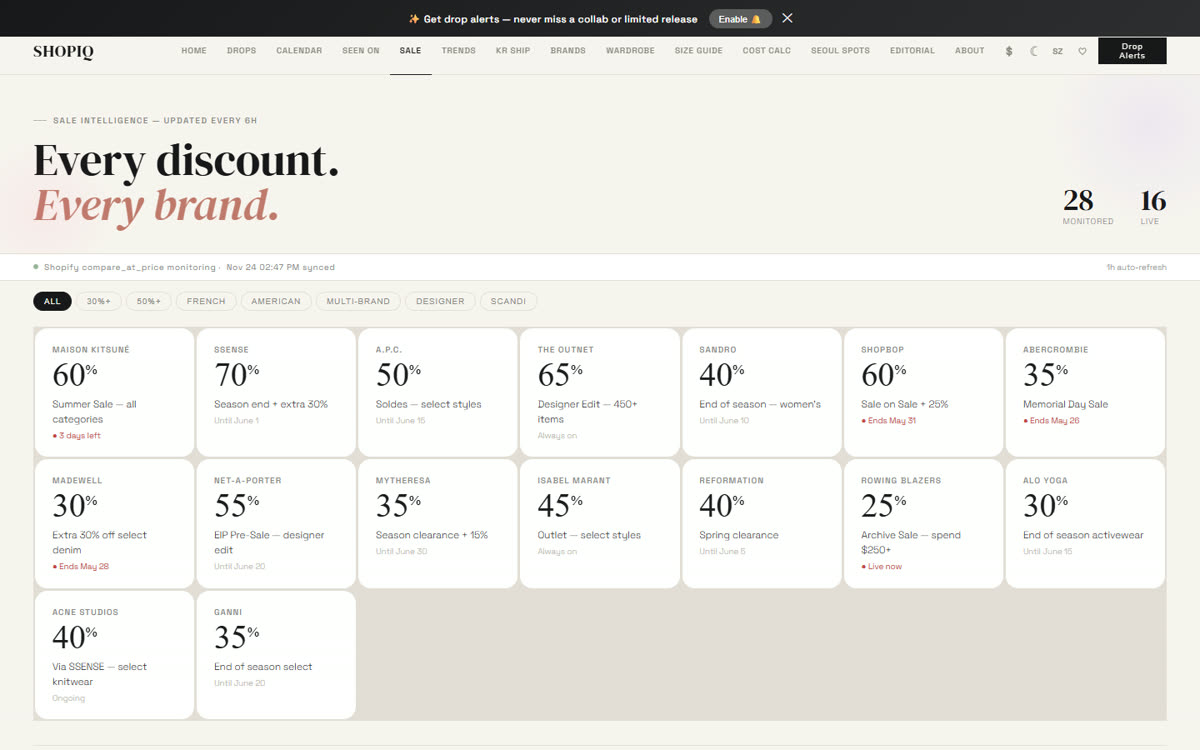
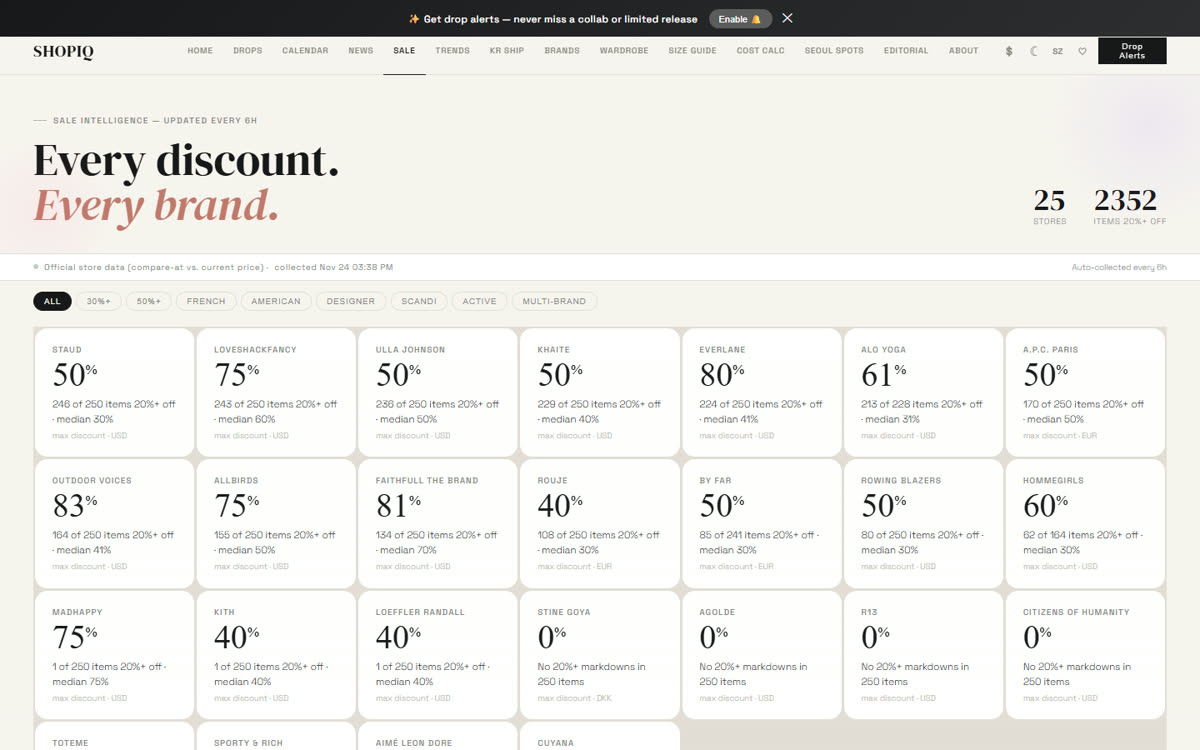
SHOPIQ is live: link, live screenshots, accurate description

diff --git a/index.html b/index.html
@@ -101,7 +101,7 @@ footer .wrap{display:flex;justify-content:space-between;flex-wrap:wrap;gap:12px}
     <h1>최주영</h1>
     <p class="lead">공주교육대학교 초등교육과(수학 심화) 재학<br>생성형 AI로 직접 만든 사이트, 영상, 업무 도구를 모았습니다.</p>
     <div class="facts">
-      <div class="fact"><b>85개</b><span>SHOPIQ에 정리한 브랜드</span></div>
+      <div class="fact"><b>25곳</b><span>SHOPIQ가 6시간마다 수집하는 공식몰</span></div>
       <div class="fact"><b>우수상</b><span>교육부·KERIS 숏폼 공모전</span></div>
       <div class="fact"><b>10분 30초</b><span>AI로 만든 다큐멘터리</span></div>
       <div class="fact"><b>750여 개</b><span>직접 만든 문법 문제</span></div>
@@ -117,22 +117,24 @@ footer .wrap{display:flex;justify-content:space-between;flex-wrap:wrap;gap:12px}
     <p class="sub">2026.06 · 생성형 AI로 기획·제작 · HTML/JS</p>
     <div class="grid">
       <figure class="media" style="margin:0">
-        <img src="assets/img/shopiq-1.jpg" alt="SHOPIQ 홈 화면: 드롭, 세일, 리셀, 셀럽 착용 정보를 한 곳에 모은 대시보드" loading="lazy">
+        <img src="assets/img/shopiq-sale.jpg" alt="세일 화면: 공식몰 25곳의 20% 이상 할인 상품 수와 최대 할인율" loading="lazy">
         <div class="shots">
-          <img src="assets/img/shopiq-sale.jpg" alt="세일 인텔리전스 화면: 브랜드별 할인율과 종료일" loading="lazy">
+          <img src="assets/img/shopiq-news.jpg" alt="뉴스 화면: 패션·리테일 매체 기사 제목과 브랜드 태그" loading="lazy">
           <img src="assets/img/shopiq-calc.jpg" alt="총비용 계산기: 환율, 관세, 배송 경로별 원화 총액 비교" loading="lazy">
         </div>
-        <figcaption>홈 · 세일 모니터링 · 구매 경로별 총비용(원화) 비교</figcaption>
+        <figcaption>세일 자동 수집(2026.11.24 기준) · 뉴스 · 구매 경로별 총비용(원화) 비교</figcaption>
       </figure>
       <ul class="sco">
         <li><span class="k">만든 이유</span><p>자주 가는 해외 쇼핑몰의 세일, 신상 발매, 콜라보 소식을 사이트마다 따로 확인하는 게 번거로워서 한곳에 모았습니다.</p></li>
-        <li><span class="k">정리 방식</span><p>발매 일정, 세일, 리셀 가격, 셀럽 착용, 트렌드로 메뉴를 나눴습니다. 한국 배송 여부와 내 사이즈로 거를 수 있습니다.</p></li>
-        <li><span class="k">세일 데이터</span><p>Shopify 쇼핑몰의 상품 데이터에서 정가와 판매가를 비교해 20% 이상 할인 상품을 골라내는 코드를 짰습니다. 쇼핑몰 데이터를 받으려면 중계 서버가 필요해서, 지금 화면은 2026년 6월에 정리한 데이터입니다. 환율만 실시간으로 반영됩니다.</p></li>
+        <li><span class="k">정리 방식</span><p>발매 일정, 세일, 리셀 가격, 뉴스, 트렌드로 메뉴를 나눴습니다. 한국 배송 여부와 내 사이즈로 거를 수 있습니다.</p></li>
+        <li><span class="k">세일 자동 수집</span><p>공식몰 25곳의 상품 데이터를 6시간마다 읽어, 정가보다 20% 이상 싸진 상품을 골라냅니다. 브라우저에서는 쇼핑몰 데이터를 바로 못 받아서, GitHub Actions가 서버 쪽에서 모아 파일로 저장하게 만들었습니다.</p></li>
+        <li><span class="k">뉴스</span><p>WWD, BoF, Vogue 등 패션·리테일 매체 10곳의 기사 제목을 같이 모으고, 내가 보는 브랜드가 언급된 기사를 따로 표시합니다.</p></li>
         <li><span class="k">총비용 계산기</span><p>같은 상품을 공식몰, 편집숍, 배송대행 중 어디서 사느냐에 따라 관세·부가세·배송비를 더한 원화 금액을 비교합니다.</p></li>
-        <li><span class="k">고친 점</span><p>잘못 연결된 이미지 35개 이상을 공식 이미지로 바꿨고, 지난 정보가 남지 않게 갱신 규칙을 넣었습니다.</p></li>
+        <li><span class="k">고친 점</span><p>확인되지 않은 셀럽 착용 정보가 들어가 있던 페이지를 지우고, 출처가 분명한 뉴스 페이지로 바꿨습니다. 데이터가 갱신된 실제 시각만 표시하도록 고쳤습니다.</p></li>
       </ul>
     </div>
     <div class="links">
+      <a class="btn primary" href="https://ebbf0217.github.io/shopiq-/" target="_blank" rel="noopener">사이트 열기</a>
       <a class="btn" href="https://github.com/ebbf0217/shopiq-" target="_blank" rel="noopener">GitHub 코드 보기</a>
     </div>
   </div>
